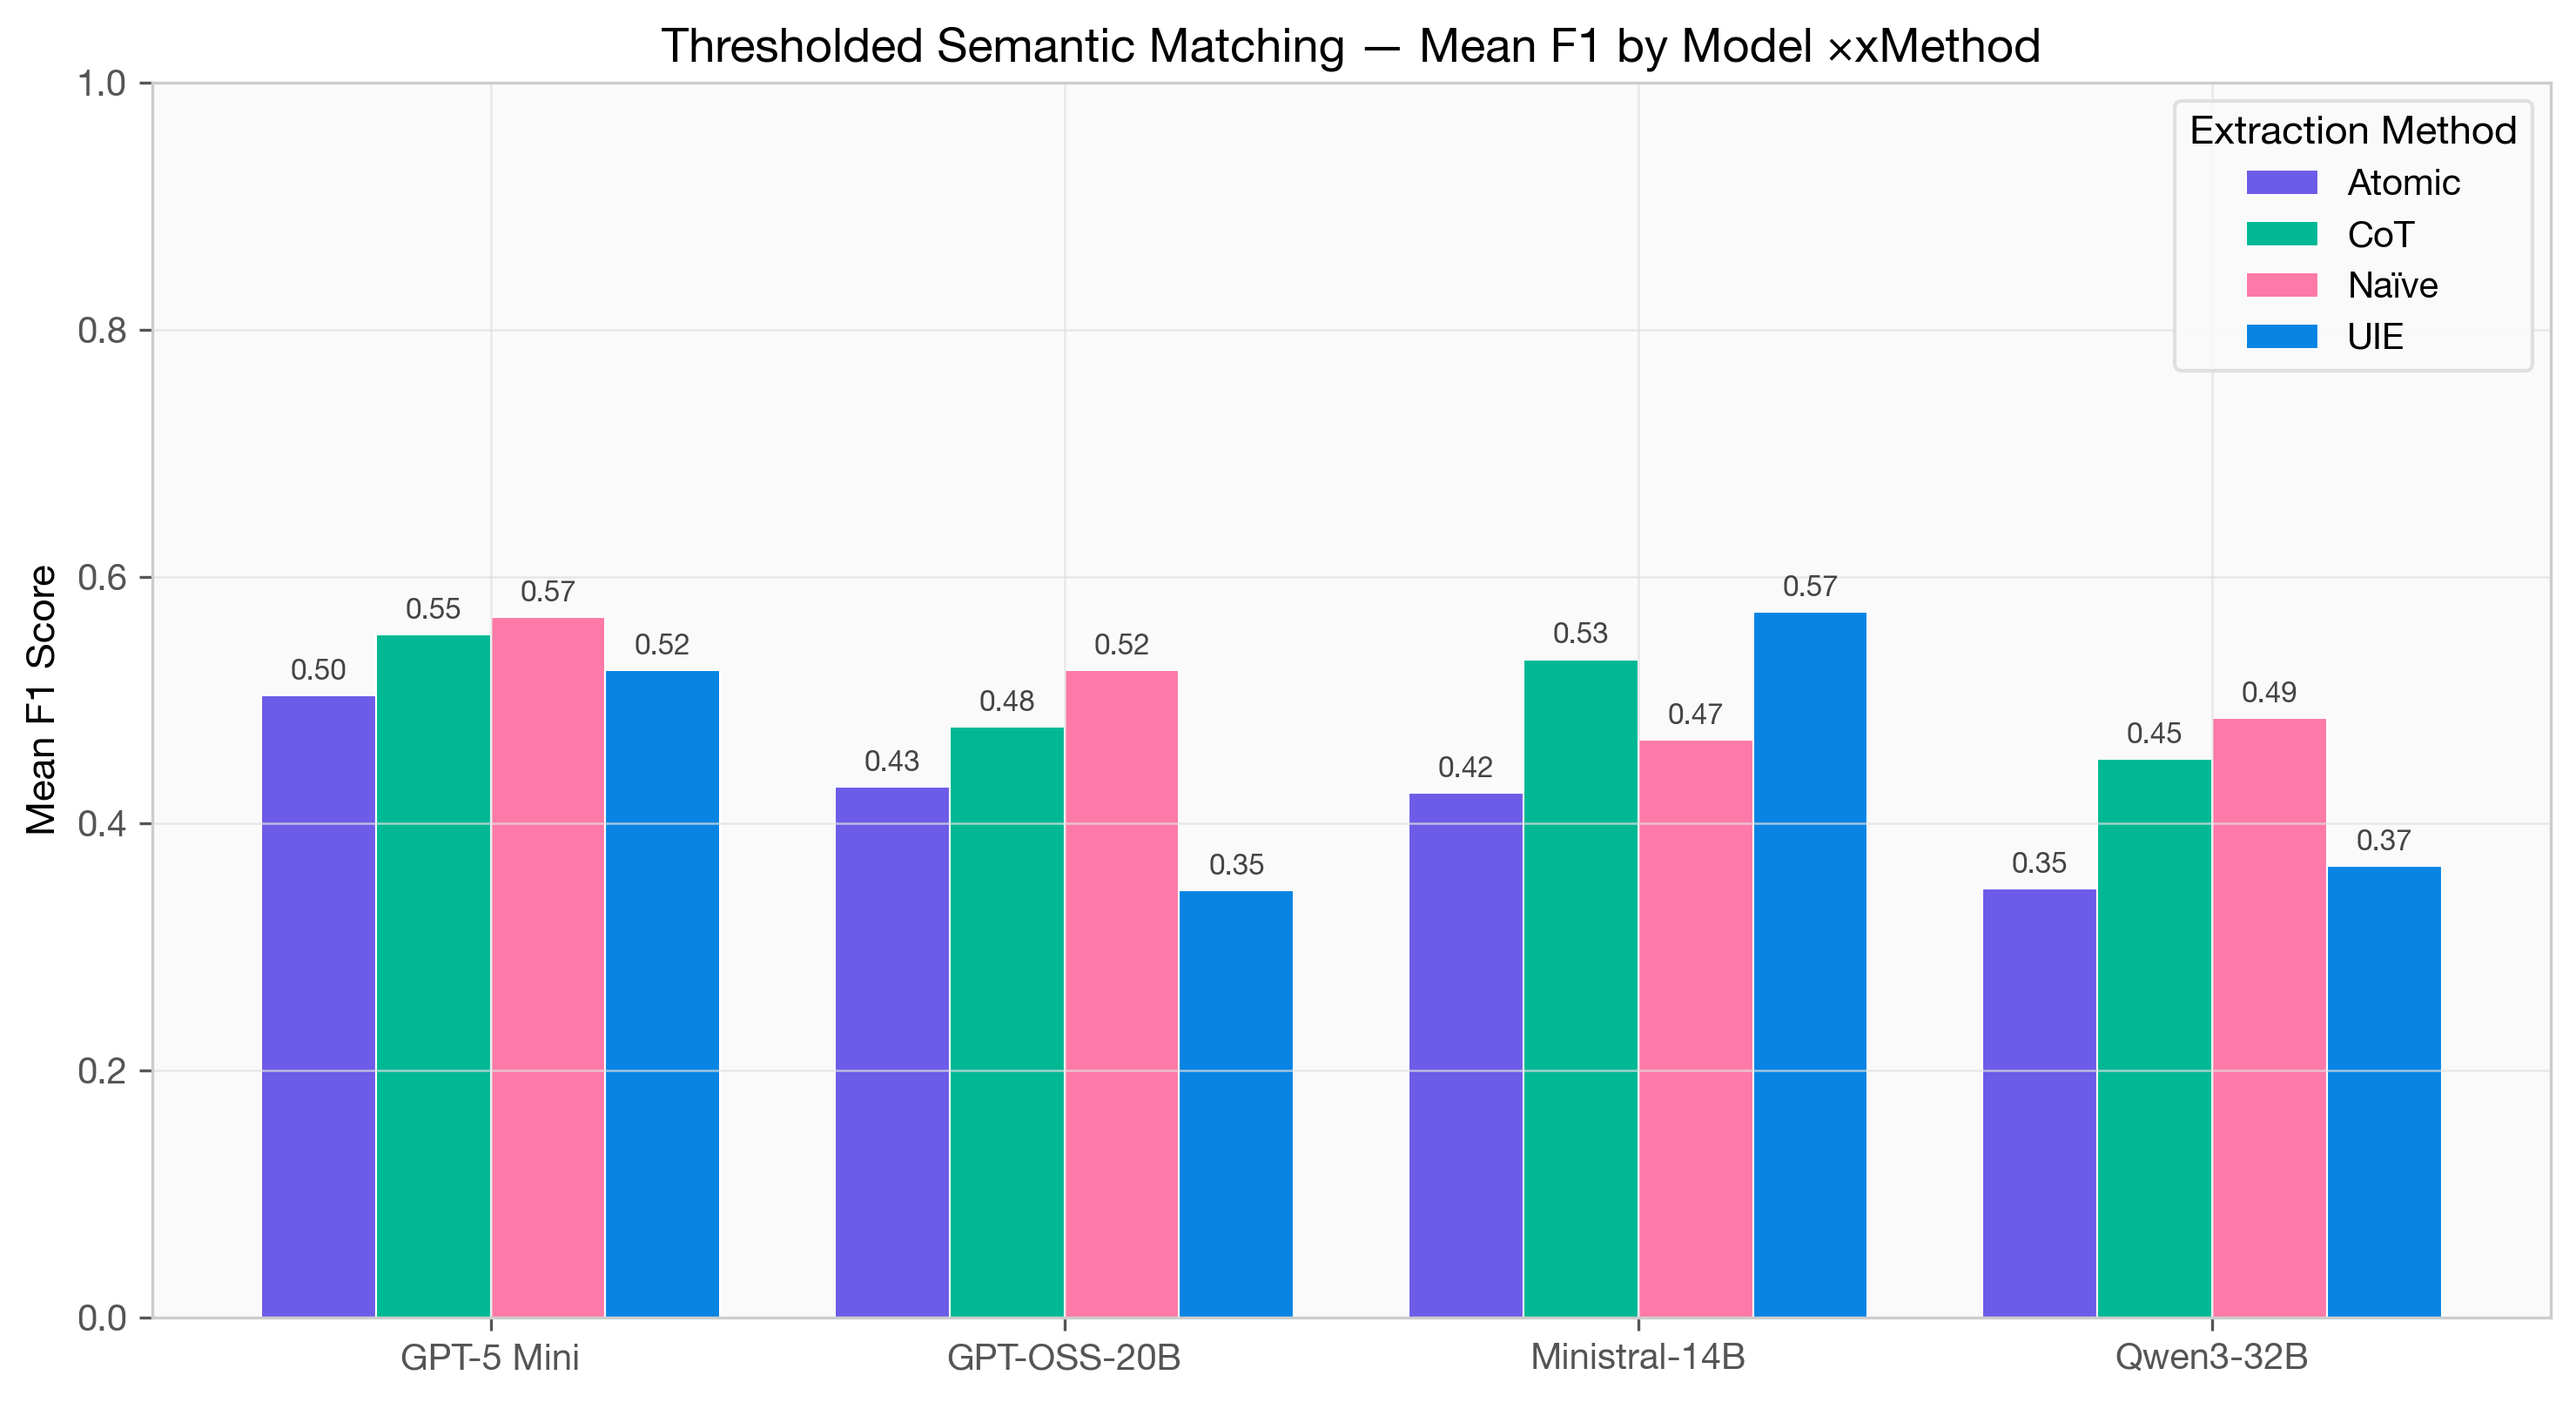
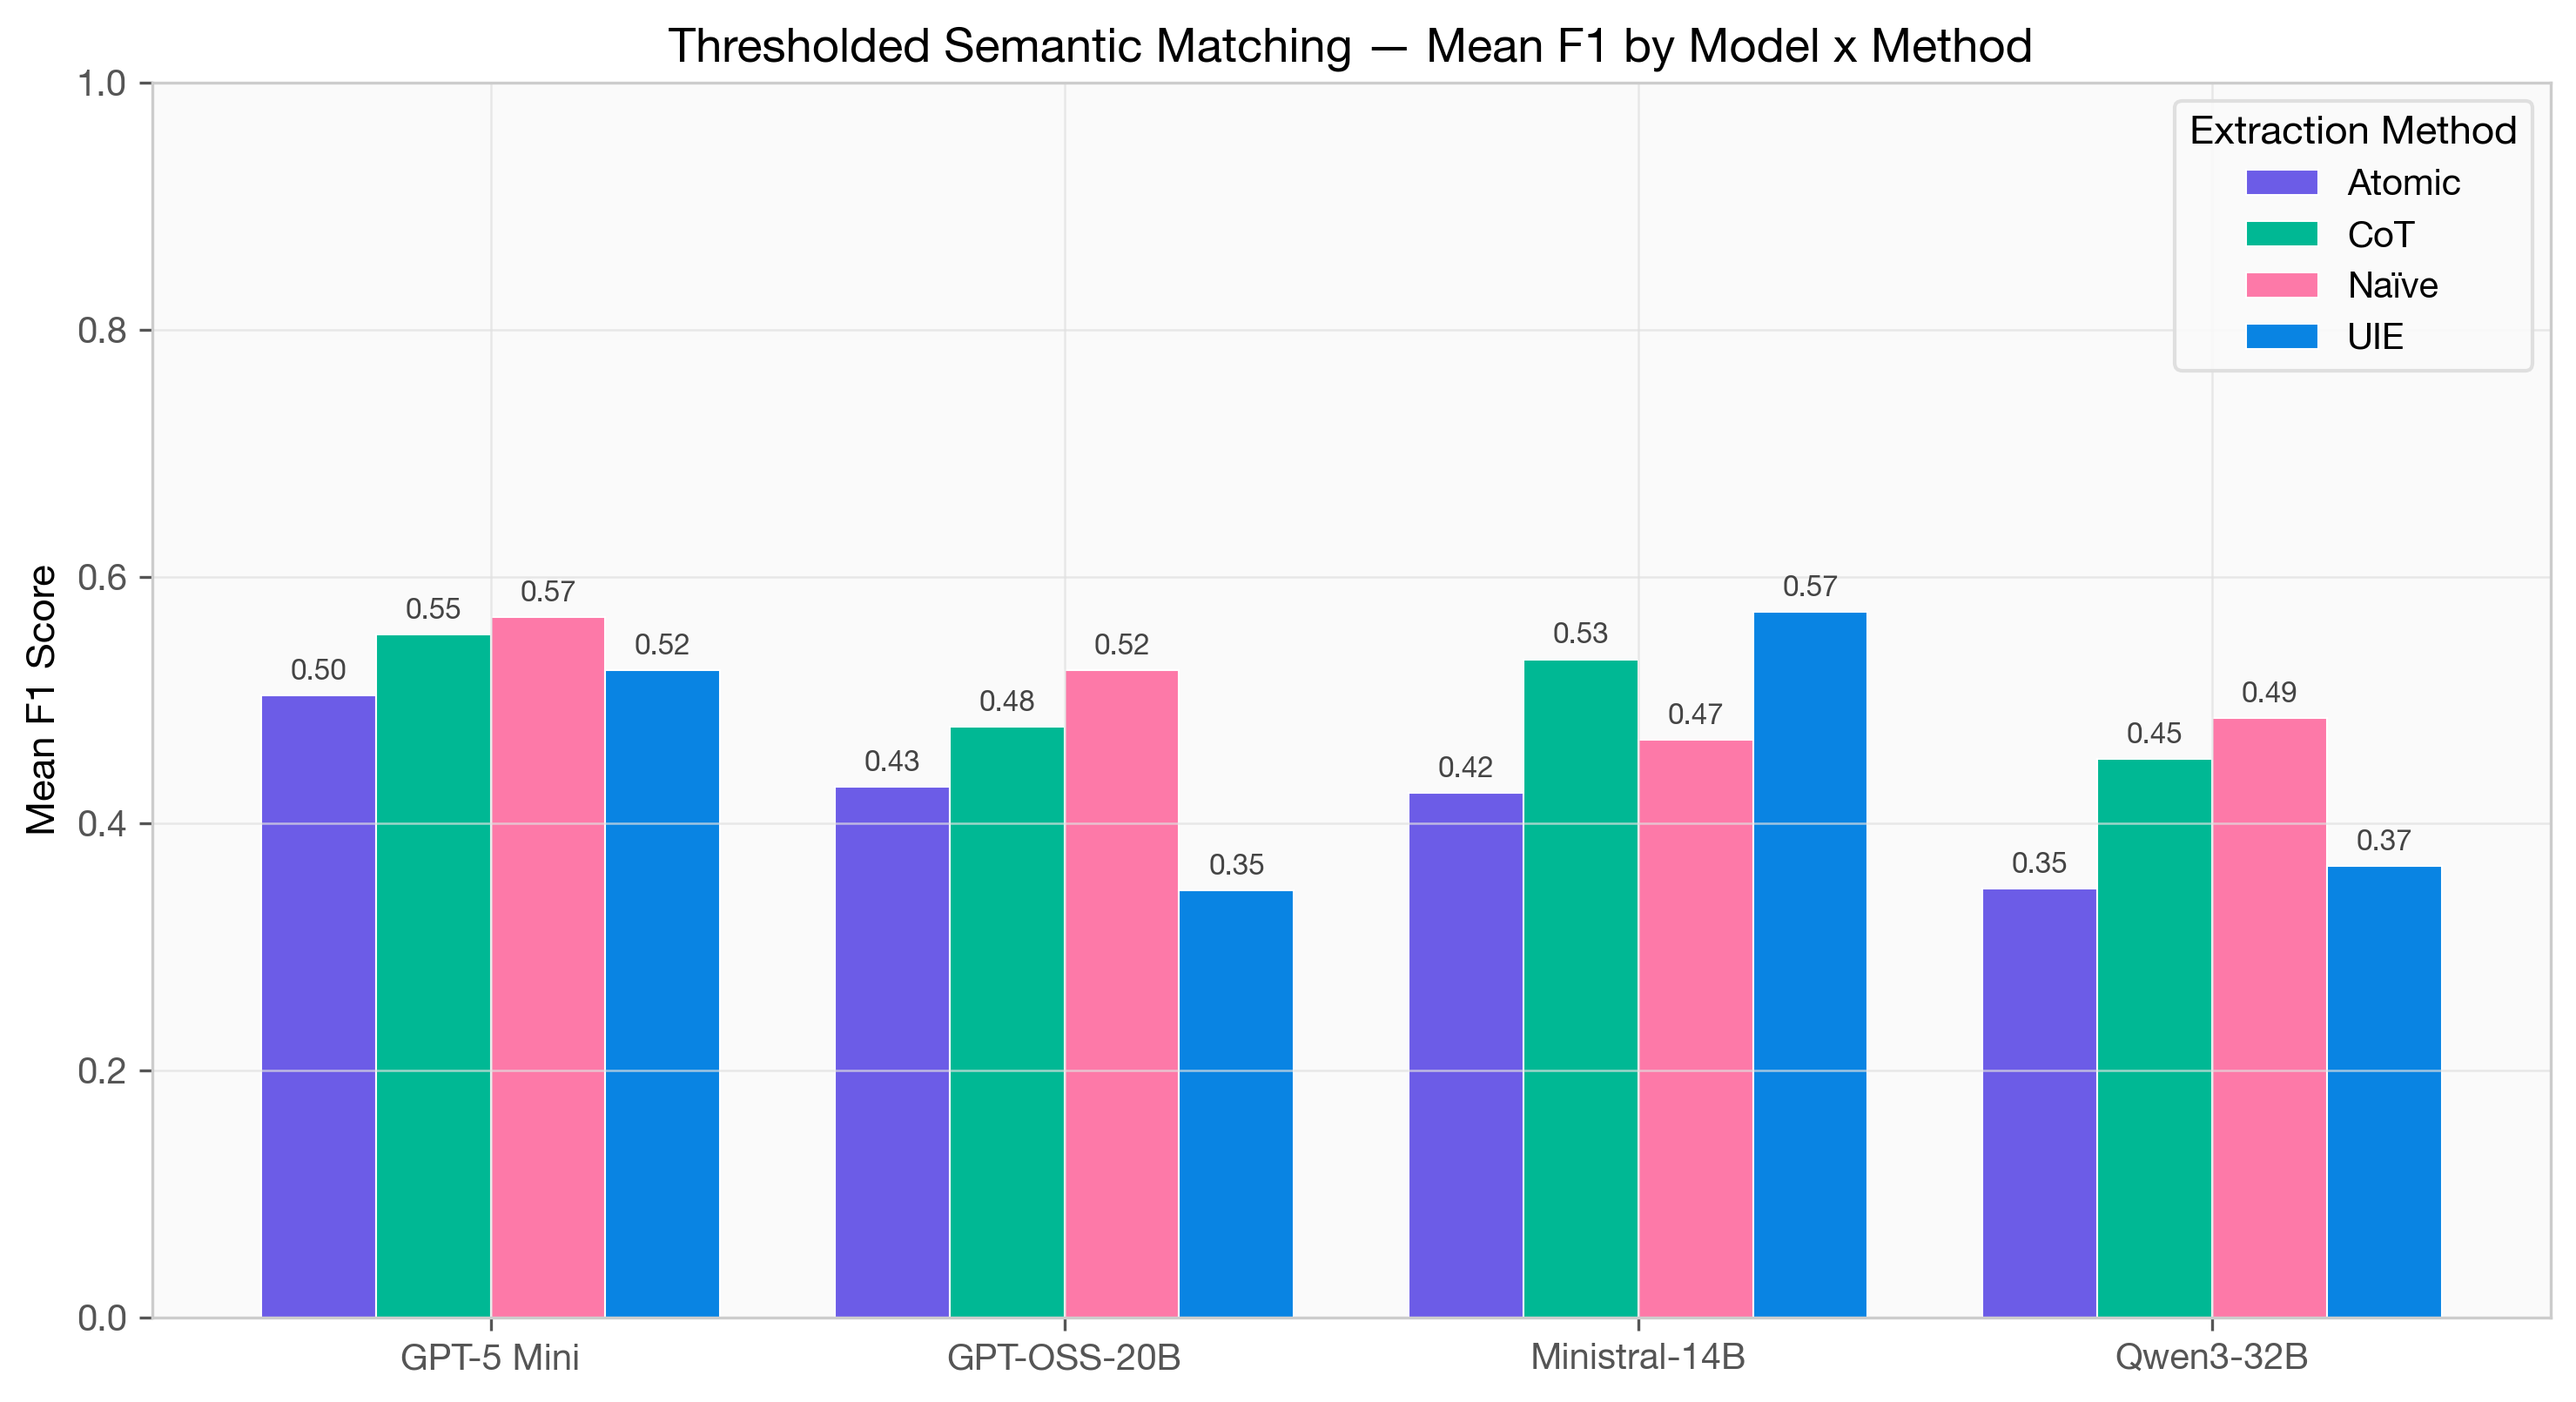
updated metrics taxonomy

Changed region(s): [[0.2487, 0.0, 0.5286, 0.0621], [0.5596, 0.0, 0.8084, 0.0621]]

diff --git a/scripts/results/_common.py b/scripts/results/_common.py
@@ -22,7 +22,7 @@ PROJECT_ROOT = Path(__file__).resolve().parents[2]  # code/
 DATA_DIR = PROJECT_ROOT / "data"
 
 # Information extraction evaluation
-IE_RESULTS_DIR = DATA_DIR / "evaluation_results" / "informtion_extraction"
+IE_RESULTS_DIR = DATA_DIR / "evaluation_results" / "information_extraction"
 IE_PER_DOC_PATH = IE_RESULTS_DIR / "per_document_thr55.json"
 IE_SUSWIR_PATH = IE_RESULTS_DIR / "suswir_evaluation.json"
 

diff --git a/evaluation_metrics_taxonomy.md b/evaluation_metrics_taxonomy.md
@@ -13,7 +13,7 @@
 
 **Default thresholds:**
 - IE similarity threshold: 0.55
-- Coverage similarity threshold (Approach A): 0.75
+- Coverage similarity threshold (Approach A): 0.6
 - Coverage entailment threshold (Approach B): 0.5
 - SUSWIR coverage sub-threshold for source sentences: 0.6
 - SUSWIR redundancy sub-threshold: 0.5
@@ -175,7 +175,7 @@ Where $w_i$ is the importance weight for fact $i$:
 **Embedding and threshold:**
 - Embedding model: `Qwen/Qwen3-Embedding-8B`
 - L2 normalization applied
-- Default threshold: 0.75
+- Default threshold: 0.6
 - Utterance extraction: chatbot responses are split by sentence boundaries and bullet points, with fragments < 10 characters filtered out
 
 ### Approach B: Bi-encoder + Cross-encoder Entailment
